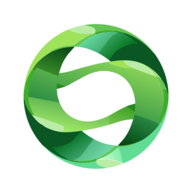
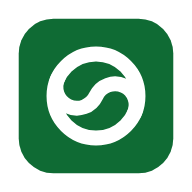
feat: 🎨 standardize brand color, update app assets, and refresh service worker cache

diff --git a/src/pages/auth/LoginPage.tsx b/src/pages/auth/LoginPage.tsx
@@ -175,7 +175,7 @@ export function LoginPage() {
         {/* Logo & Tagline - upper area */}
         <div className="mb-12 flex flex-col items-center">
           <img src="/favicon.svg" alt="Zplit Logo" className="w-24 h-24 mb-4" />
-          <h1 className="text-5xl font-extrabold tracking-tight bg-gradient-to-r from-[#2D8F44] via-[#63C452] to-[#85D156] bg-clip-text text-transparent">
+          <h1 className="text-5xl font-extrabold tracking-tight text-brand">
             Zplit
           </h1>
           <p className="mt-3 text-lg text-base-content/60">

diff --git a/src/index.css b/src/index.css
@@ -8,6 +8,8 @@
 
 @theme {
   --color-root-bg: var(--color-base-200);
+  /* Brand green, matched to the app icon (public/favicon.svg) */
+  --color-brand: #0f6b34;
   --app-frame-max-width: 24rem;
   --app-frame-height: 800px;
   --app-frame-gutter: 1rem;
@@ -306,4 +308,9 @@
   --color-warning: oklch(75% 0.16 86);
   /* 調降明度與彩度，深色背景下不刺眼 */
   --color-warning-content: oklch(10% 0.02 86);
+}
+
+/* Lift the brand green on the dark theme so the wordmark stays legible. */
+[data-theme="dim"] {
+  --color-brand: #5fcb86;
 }

diff --git a/src/pages/main/HomePage.tsx b/src/pages/main/HomePage.tsx
@@ -126,7 +126,7 @@ export function HomePage() {
       <div className="flex items-center justify-between">
         <div className="flex items-center gap-2">
           <img src="/favicon.svg" alt="Zplit Logo" className="w-8 h-8" />
-          <h1 className="text-2xl font-extrabold tracking-tight bg-gradient-to-r from-[#2D8F44] via-[#63C452] to-[#85D156] bg-clip-text text-transparent">
+          <h1 className="text-2xl font-extrabold tracking-tight text-brand">
             Zplit
           </h1>
         </div>

diff --git a/index.html b/index.html
@@ -5,7 +5,7 @@
   <meta charset="UTF-8" />
   <link rel="icon" type="image/svg+xml" href="/favicon.svg" />
   <link rel="manifest" href="/manifest.webmanifest" />
-  <link rel="apple-touch-icon" href="/favicon.svg" />
+  <link rel="apple-touch-icon" sizes="180x180" href="/apple-touch-icon.png" />
   <meta name="viewport" content="width=device-width, initial-scale=1.0" />
   <meta name="mobile-web-app-capable" content="yes" />
   <meta name="apple-mobile-web-app-capable" content="yes" />

diff --git a/public/sw.js b/public/sw.js
@@ -1,4 +1,4 @@
-const CACHE_NAME = 'zplit-v1';
+const CACHE_NAME = 'zplit-v2';
 
 // App shell files to pre-cache
 const PRECACHE_URLS = ['/', '/index.html'];
